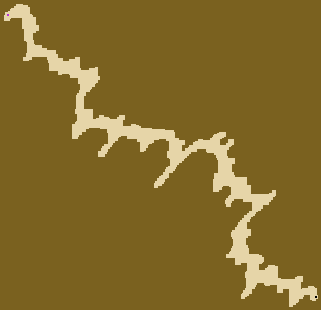
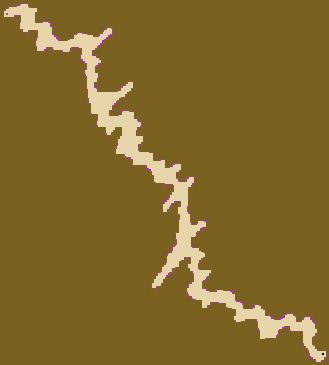
chore: update doc, display polygon point on map output

Changed region(s): [[0.0, 0.0, 0.9969, 1.0]]

diff --git a/src/area_gen/mod.rs b/src/area_gen/mod.rs
@@ -36,12 +36,22 @@ pub fn generate_area(map_index: usize) -> AreaGenerationOutput {
     let map = maps.remove(map_index);
     let map_name = map.name.clone();
     // Generate map grid
-    let grid = generate_map(seed, map);
+    let mut grid = generate_map(seed, map);
 
+    //------------------------------------------------------//
+    //               Find oob polygons                      //
+    //------------------------------------------------------//
+    // polygone grid display for debuging
+    // Find a first point on the map contour
+    let mut current_pos = (0, (grid[0].len() / 2) as i32);
+    while grid[current_pos.0 as usize][current_pos.1 as usize].tile_type != TileType::Floor {
+        current_pos.0 += 1;
+    }
+    // Take a step
+    current_pos.0 -= 1;
     // Generate polygone of the outside of the map
-
-    let oob_polygone = find_oob_polygone(&grid);
-
+    let oob_polygone = find_oob_polygone(current_pos, &mut grid);
+    render_grid(&grid, map_name.clone());
     // Initiate module output
     let mut walkable_x = Vec::new();
     let mut walkable_y = Vec::new();
@@ -69,17 +79,10 @@ pub fn generate_area(map_index: usize) -> AreaGenerationOutput {
     }
 }
 
-fn find_oob_polygone(grid: &Grid) -> Vec<(f32, f32)> {
+fn find_oob_polygone(start_point: (i32, i32), grid: &mut Grid) -> Vec<(f32, f32)> {
     let mut tile_polygone = Vec::new();
     let mut px_polygone: Vec<(f32, f32)> = Vec::new();
-    let mut current_pos: (i32, i32) = (0, (grid[0].len() / 2) as i32);
-    // polygone grid display for debuging
-    // Find a first point on the map contour
-    while grid[current_pos.0 as usize][current_pos.1 as usize].tile_type != TileType::Floor {
-        current_pos.0 += 1;
-    }
-    // Take a step
-    current_pos.0 -= 1;
+    let mut current_pos = start_point;
     // We start by trying to go down
     let mut dir = (0, 1);
     let mut next_dir = dir;
@@ -216,6 +219,12 @@ fn find_oob_polygone(grid: &Grid) -> Vec<(f32, f32)> {
         current_pos.0 += dir.0;
         current_pos.1 += dir.1;
     }
+
+    // for debuging only
+    for point in tile_polygone {
+        grid[point.0 as usize][point.1 as usize].tile_type = TileType::Start;
+    }
+
     px_polygone
 }
 
@@ -249,8 +258,8 @@ fn generate_map(seed: u64, map: Map) -> Grid {
     // resize_grid to it's minimum size
     resize_grid(&mut grid, 4);
 
-    // print grid
-    render_grid(&grid, map.name.clone());
+    // // print grid
+    // render_grid(&grid, map.name.clone());
     grid
 }
 

diff --git a/README.md b/README.md
@@ -2,6 +2,12 @@
 - Rust arpg procedural map generation
 - Each pixel is a game tile
 
+### Main generation steps
+- "Shoot" a point that will create overlaping rectangles in a semi random way, based on parameters (see floor_patterns module)
+- "Smooth out" the generated area by removing small tiles clusters, and rounding corners
+- Resize the area to useful tiles only
+- Map out the external layout of the map as a polygon, for later use to fence the player in the map, without using all tiles.
+
 ### Example outputs
 
 A forest
